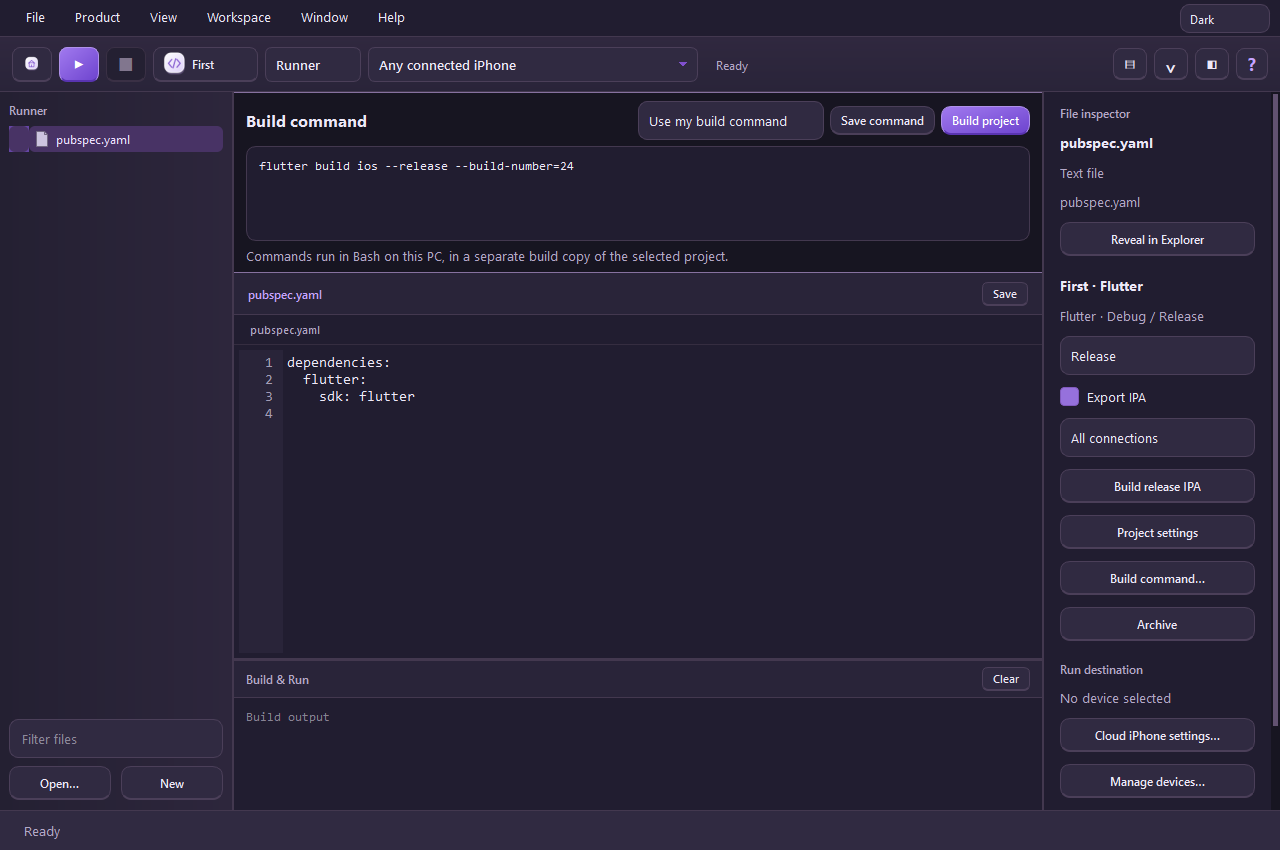
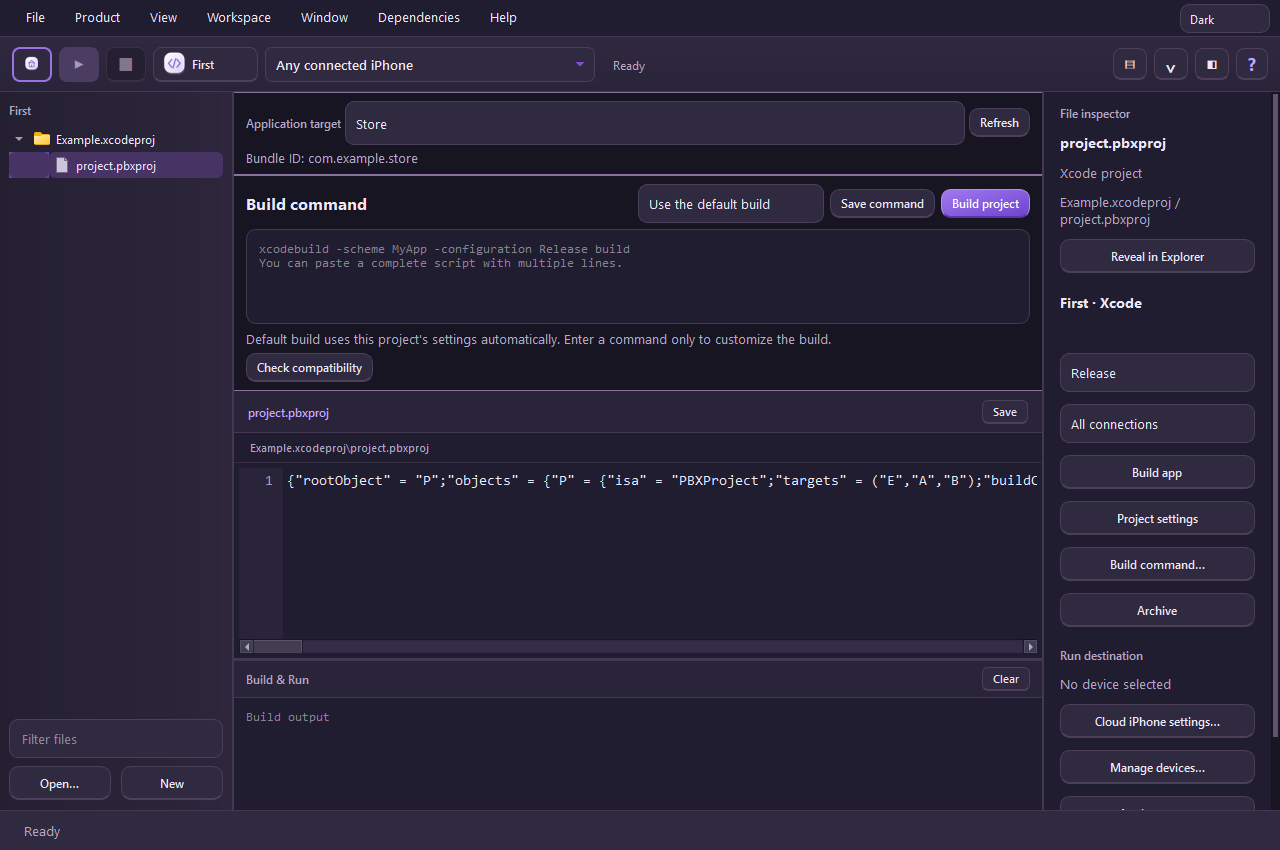
Document Workbench target selection and automatic development provisioning in 1.0.15

diff --git a/README.md b/README.md
@@ -6,20 +6,21 @@
 
 Rano IDE brings project files, build commands, dependency setup, iPhone connections and App Store Connect delivery into one desktop application. Its supported build paths run locally on Windows through WSL; Rano IDE does not send your project to a build server operated by us.
 
-**Current release: 1.0.14 · Windows x64 · Free to download and use · Application source is private.**
+**Current release: 1.0.15 · Windows x64 · Free to download and use · Application source is private.**
 
-👉 **[Download Rano IDE 1.0.14](https://github.com/hrano1000/Rano-IDE/releases/download/v1.0.14/RanoIDESetup-1.0.14.exe)**
+👉 **[Download Rano IDE 1.0.15](https://github.com/hrano1000/Rano-IDE/releases/download/v1.0.15/RanoIDESetup-1.0.15.exe)**
 
 📦 **[All releases and downloads](https://github.com/hrano1000/Rano-IDE/releases)** · 🐛 **[Report a problem](https://github.com/hrano1000/Rano-IDE/issues)** · 📜 **[License](LICENSE)** · 🔐 **[Privacy and security](SECURITY.md)**
 
 This public repository contains the downloads, user documentation, branding and dependency notices. It does not publish the Rano IDE desktop application's development source. GitHub's automatically generated repository ZIP contains these documents; choose the **EXE installer** to install the application.
 
-## 🆕 What's new in 1.0.14
+## 🆕 What's new in 1.0.15
 
-- 🛠 New archives receive standard Xcode product metadata from the verified Apple SDK import before signing. The fix is shared by supported project build paths and their app extensions.
-- 🔎 **Check before upload** catches missing or inconsistent product metadata and known unaccepted beta identities before a transfer starts.
-- 📋 **Release IPAs → Export details…** shows the generated product fields alongside the actual compiler information.
-- 🛡 The established upload, signing and asset compilation implementations are retained. Create a fresh archive to use the fix; previously uploaded builds remain unchanged.
+- 🎯 **Application target** is visible in Workbench above **Build command**, with the selected app's bundle ID beneath it.
+- 💾 Native iOS and React Native choices are remembered separately for each project and container. Multiple apps require an explicit choice; a missing saved target cannot silently switch to another app.
+- 📱 Flutter shows its supported **Runner** application. Notification extensions, tests and libraries are not main-app choices. Other Flutter app targets are marked unavailable rather than pretending to build them.
+- 🛡 Custom native commands cannot silently override the selected application. The established upload, signing and asset compilation implementations and the 1.0.14 metadata correction are retained.
+- 🔄 Flutter device Run selects a new app's original App ID automatically and retries temporary development-service lookups. Existing identity choices are preserved; signing mutations are not automatically repeated.
 
 The installed application passed packaged UI and installer checks. Project compatibility and setup limits are described below; local checks do not guarantee Apple's acceptance of every project.
 
@@ -67,7 +68,7 @@ Rano IDE provides:
 
 Rano IDE is a practical development tool with experimental compiler integrations. It is not a complete replacement for every Xcode feature or every iOS project's build tools.
 
-| Project or artifact | What is available in 1.0.14 | What to know before using it |
+| Project or artifact | What is available in 1.0.15 | What to know before using it |
 | --- | --- | --- |
 | Flutter | Local Debug/Release iOS builds, release AOT compilation, IPA output, archives and supported iPhone Run workflows | Native plugins must be compatible with the local compiler or a supported adapter. Downloading a package alone cannot make an unsupported native implementation work. Profile builds are not supported. |
 | SwiftPM applications compatible with xtool | Local Swift application builds, Debug/Release configuration and existing signing/device workflows | An arbitrary Swift library package is not automatically an installable iOS application. The project needs an appropriate application configuration. |
@@ -106,7 +107,7 @@ Large projects and compiler setup can need substantial time, memory and storage.
 
 The installer shows **Create a desktop shortcut**, checked by default. A Start menu shortcut is also created. Clear the desktop checkbox if you prefer to launch from the Start menu.
 
-1. Download **RanoIDESetup-1.0.14.exe** from the [official release page](https://github.com/hrano1000/Rano-IDE/releases/tag/v1.0.14).
+1. Download **RanoIDESetup-1.0.15.exe** from the [official release page](https://github.com/hrano1000/Rano-IDE/releases/tag/v1.0.15).
 2. Compare the download with the release's **SHA256SUMS.txt** if you want to verify its integrity. On Windows, the file's SHA-256 can be checked with a checksum utility or `Get-FileHash`.
 3. Open the EXE and choose **Install & open Rano IDE**.
 4. The application installs under your Windows user's local Programs directory and creates desktop/Start menu shortcuts.
@@ -150,15 +151,19 @@ Choose **Open project** on Home or in the File menu. You can also reopen a recen
 
 Workbench contains:
 
-- **Top toolbar:** Home, Run, Stop, project, scheme/run destination and pane controls.
+- **Top toolbar:** Home, Run, Stop, project, run destination and pane controls.
 - **Left:** Project files and file filter.
-- **Center:** Build command editor, current source file and Build & Run output.
+- **Center:** Application target selector with bundle ID, Build command editor, current source file and Build & Run output.
 - **Right:** File information, configuration, build settings and archive controls.
 - **Top right:** Appearance selector.
 
 ![Workbench in Light mode](docs/workbench-light.png)
 
 Save source edits before building. The editor warns about unsaved changes and files changed outside the editor. Build progress and errors appear in **Build & Run**. **Activity** provides task output; save sanitized logs only after reviewing them.
+
+Choose **Application target** above **Build command**. Native iOS and React Native choices are remembered per project and container. If several apps exist, select one explicitly. **Refresh** rereads available targets; a removed saved target must be selected again. Notification extensions, tests and libraries are not main-app choices. Flutter currently builds **Runner**; additional Flutter app targets are marked unavailable. Swift packages show their configured app. The bundle ID shown is the project's declared ID for the selected configuration, not a provisioning-profile name.
+
+Flutter device Run automatically selects the original project App ID for a new app when neither ID is registered. Explicit saved `xcross.bundle_id` / `XCROSS_BUNDLE_ID` choices and existing registered identities are retained. Temporary read-only Apple development-service lookups get at most three attempts. Registrations, profiles, certificates and deletions are never automatically replayed. First-time provisioning still needs Apple reachable; if no valid offline profile exists, restore the connection and select Run again. This is separate from App Store Connect distribution.
 
 ## ⌨ Enter your own build command
 
@@ -217,7 +222,7 @@ For an xtool-compatible SwiftPM application, this uses the local app build path.
 
 ## ⚙ Build settings, Dart defines and scripts
 
-Open **Project settings** in Workbench. Flutter settings include a Build tab and **Signing & Capabilities**. Native settings include build command and application-target selection.
+Open **Project settings** in Workbench. Flutter settings include a Build tab and **Signing & Capabilities**. Select the application directly in **Workbench → Application target**; native settings also link back to that control.
 
 For Flutter configuration, you can:
 
@@ -361,7 +366,7 @@ Interrupted or uncertain submissions are **not automatically re-uploaded**. Chec
 
 ## 🔢 Versions and build numbers
 
-Rano IDE's **1.0.14** version is separate from your application's version.
+Rano IDE's **1.0.15** version is separate from your application's version.
 
 - Flutter normally gets app version/build from `pubspec.yaml` and supported build overrides.
 - Native Xcode projects use their selected configuration's marketing/build settings.
@@ -422,6 +427,6 @@ Rano IDE is **freeware with private application source**. Included/downloaded th
 
 Read [LICENSE](LICENSE), [THIRD_PARTY_NOTICES.md](THIRD_PARTY_NOTICES.md) and [DEPENDENCY_SOURCE_ACCESS.md](DEPENDENCY_SOURCE_ACCESS.md). Apple SDKs, project sources, credentials, signing profiles and developer build caches are excluded from the published release assets.
 
-Read the [full 1.0.14 audit](docs/AUDIT-1.0.14.md) for findings, verification and remaining limits.
+Read the [full 1.0.15 audit](docs/AUDIT-1.0.15.md) for findings, verification and remaining limits.
 
 For 1.0.14, the shared bundle generator writes standard Xcode product identity fields from the matching verified SDK import before signing. This corrects the omission left in 1.0.13's report-only metadata change. The actual Linux compiler and host remain separately recorded; no macOS host or stable build identifier is invented. **Check before upload** and the UI delivery guard reject missing, testing, conflicting and known unaccepted beta identities before transfer. **Release IPAs → Export details…** exposes the generated fields. Existing IPAs are unchanged; create a new archive to use the fix. Local verification does not establish Apple App Review acceptance of a new build. Transfer/signing and asset compilation implementations remain unchanged. The earlier WSL recovery protections and documented project/setup limitations remain applicable.

diff --git a/docs/AUDIT-1.0.15.md b/docs/AUDIT-1.0.15.md
@@ -1,0 +1,25 @@
+# 🎯 Rano IDE 1.0.15 — Workbench application targets
+
+## Visible selection
+
+**Application target** now appears above **Build command** in Workbench rather than being hidden in native-only Project settings or shown as a disabled toolbar box. Its bundle identifier appears underneath for the current build configuration. **Refresh** rereads the project metadata. Native iOS/React Native selections are saved separately per project, using the application name and its project/workspace container. The selected target and container reach the existing build driver.
+
+If a project contains several applications, it requires an explicit choice. A renamed or removed saved target is shown as unavailable; the IDE does not silently build another application. The choice is rechecked before compiling. Native custom commands that select a conflicting target, container or scheme stop with a diagnosis. Reopening a project defaults to Release; switching targets preserves a configuration when that target supports it.
+
+## Scope and limits
+
+Application choices come from application targets, not provisioning-profile names. Notification extensions, tests and libraries are excluded as main applications. Their normal parent-app dependency/signing behavior is unchanged. Bundle IDs are read from target-specific project settings and available configuration files; unresolved values remain unknown until build time.
+
+Flutter shows the existing supported **Runner** application. Additional Flutter app targets are marked unavailable because this change does not implement arbitrary multi-target Flutter compilation or full flavor/scheme support. Swift packages show their configured application. Native and React Native build support remains experimental as documented in the README. Missing generated Pods do not hide an existing main target from the selector; actual dependency installation and compiler compatibility are still required.
+
+## Automatic development provisioning
+
+The desktop bridge enables the patched backend's automatic App ID policy. Explicit saved/one-run choices and IDs already registered to the team keep precedence. For a new app with neither original nor prefixed ID registered, the original project identifier is registered once without another prompt. A failure cannot silently replace that ID with a prefixed one. Existing prefixed choices are not silently migrated; this avoids orphaning installed app data and capabilities.
+
+Apple's development service physically POSTs even logical GET requests. The patch distinguishes the logical operation and retries only GET lookups, up to three attempts, with short bounded delays, fresh headers, closed persistent connections, and a read timeout. Transient connection failures and HTTP 502/503/504 can recover. Authentication refusals, rate limits, malformed successful responses, registrations, certificates, profiles, capability changes and deletions are not automatically replayed. Existing offline-profile validation remains in place. If first-time provisioning cannot reach Apple and no usable cache exists, the UI explains the connection requirement and retains saved material. The patch does not change the App Store Connect transfer client.
+
+## Verification
+
+Focused regression coverage exercises extension exclusion, exact target/container restoration, project isolation, target-specific bundle IDs/configuration files, actual native build arguments, deleted targets, malformed metadata and conflicting custom commands. The packaged application check exercises selection, persistence, project switching, build argument routing, busy-state locking, light/dark/system rendering, narrow layout and contextual help without building or uploading an owner's app.
+
+The development backend is rebuilt from its pinned source and its actual Dart transport/identity tests use mock Apple services; no live registrations or owner uploads are performed. The established App Store transfer, distribution signer, archive and Flutter asset compiler implementations remain unchanged. The genuine SDK-source metadata correction from 1.0.14 is retained. Local checks do not establish universal compiler support, permanent network availability or Apple's acceptance of every app. Complete first-time toolchain installation on a clean Windows VM remains unverified. Release assets exclude the desktop development source, owner projects, credentials and Apple SDKs.
